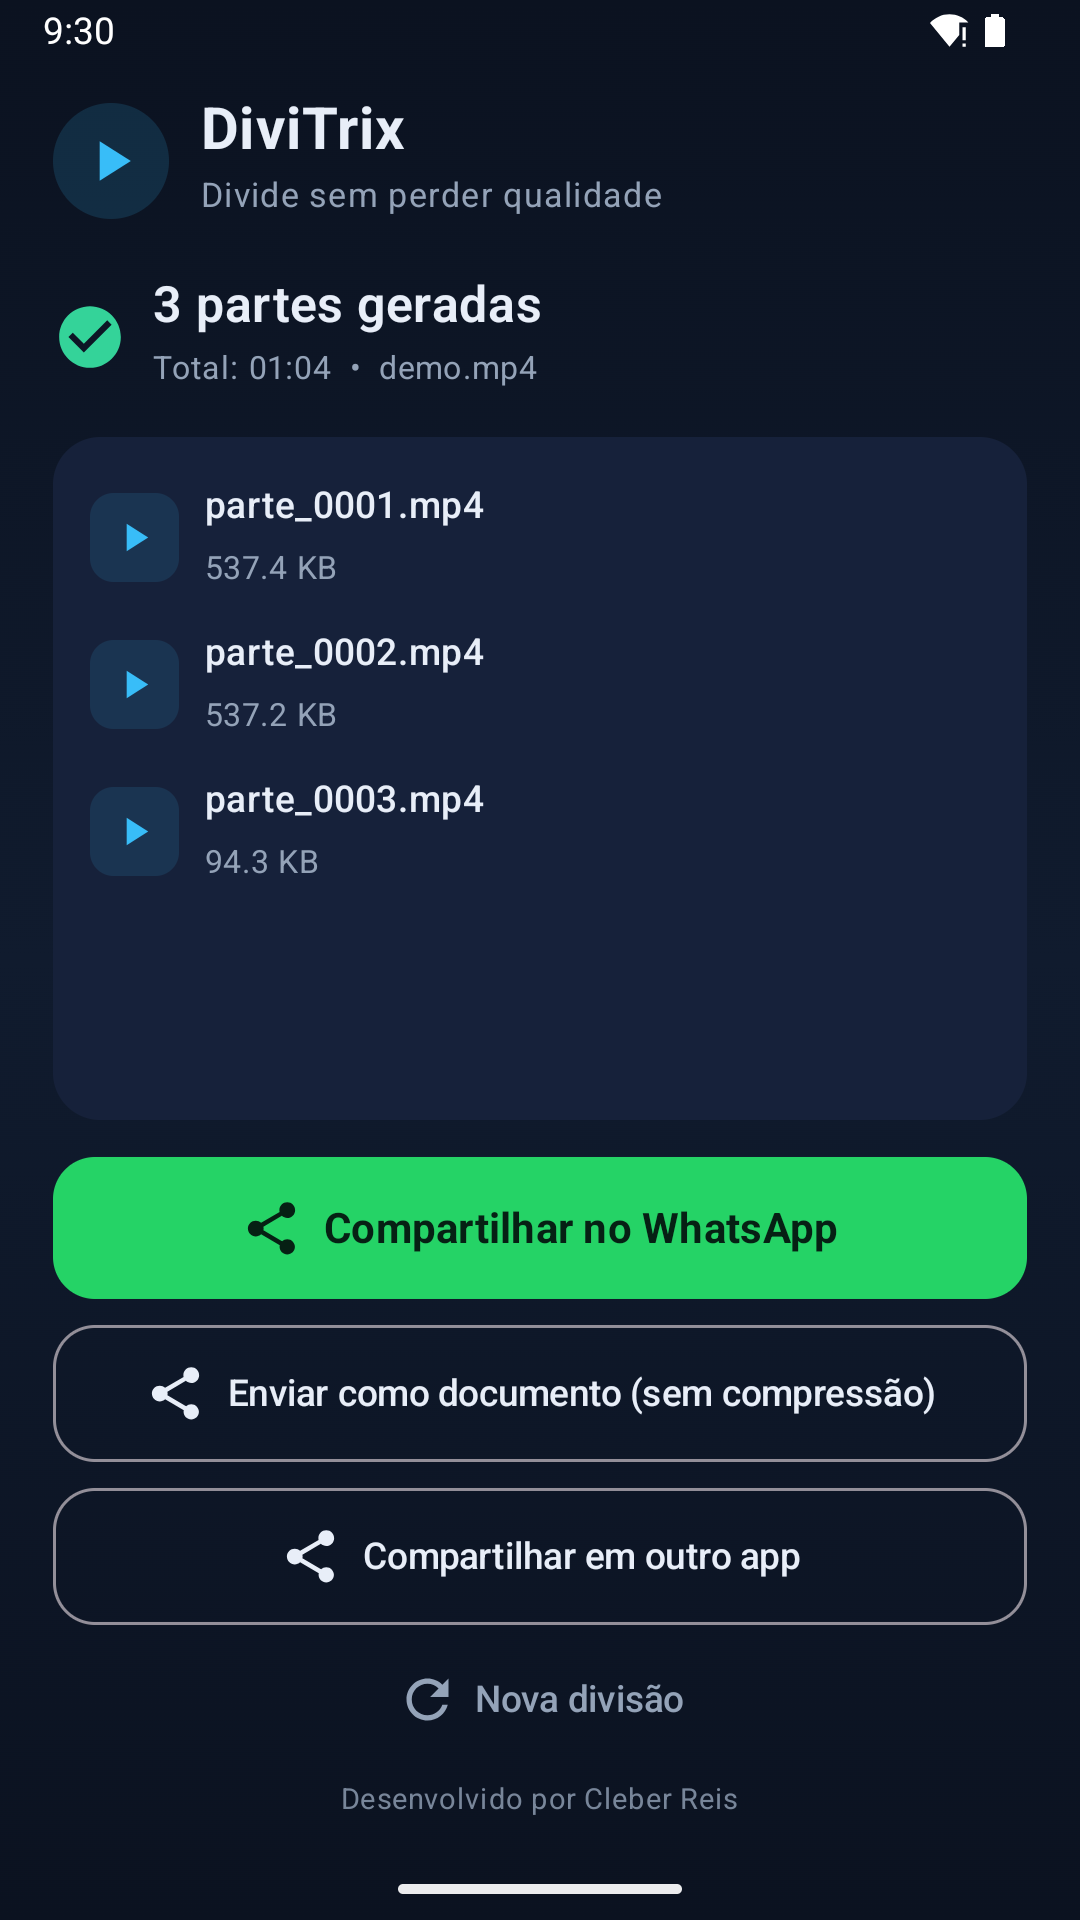
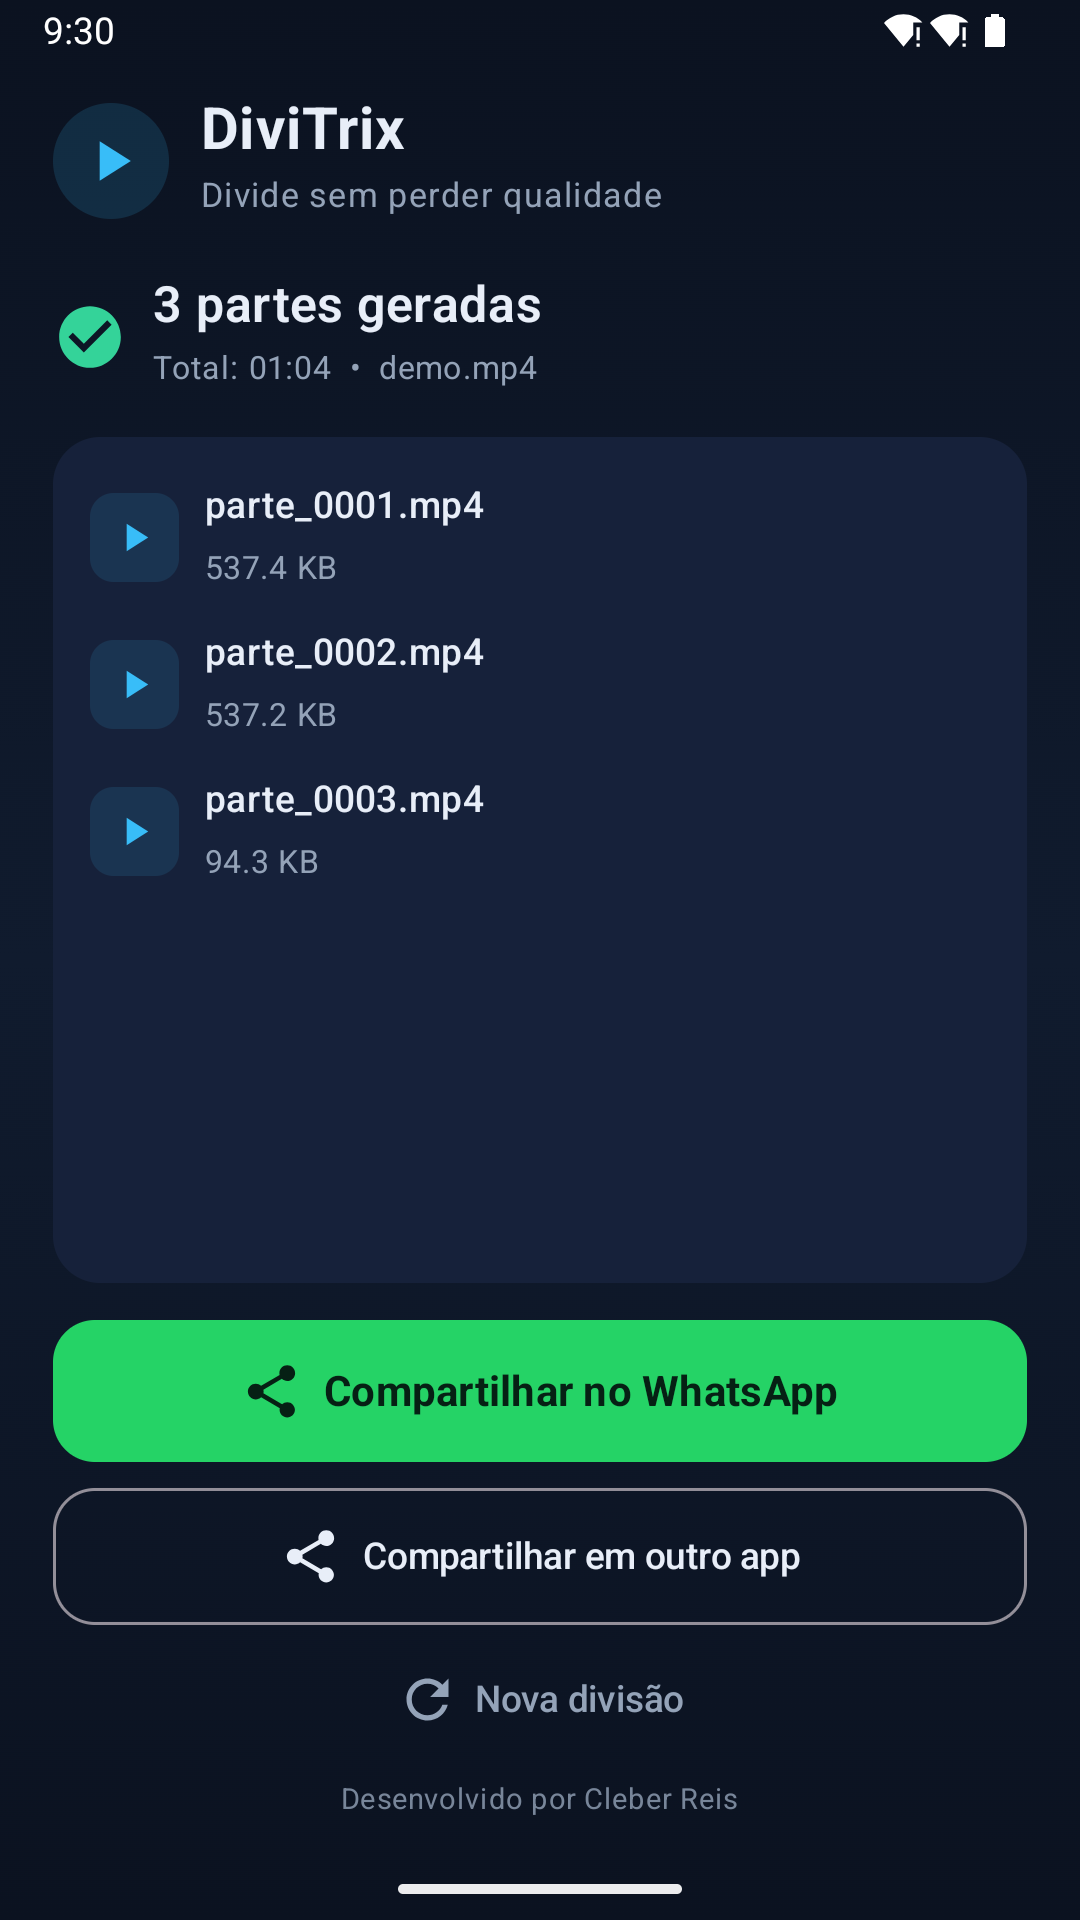
feat: remove a opção de enviar como documento
- Tela de resultado passa a ter só 'Compartilhar no WhatsApp' e 'Compartilhar em outro app'
- ShareUtils não trata mais application/octet-stream
- Documentação, prints da loja e hashes atualizados

Changed region(s): [[0.0306, 0.5938, 0.9778, 0.7812], [0.825, 0.0, 0.8556, 0.0312]]

diff --git a/app/src/main/java/com/cleber/divitrix/MainActivity.kt b/app/src/main/java/com/cleber/divitrix/MainActivity.kt
@@ -182,22 +182,6 @@ class MainActivity : ComponentActivity() {
                                             ).show()
                                         }
                                     },
-                                    onWhatsAppDocument = {
-                                        runCatching {
-                                            ShareUtils.shareToWhatsApp(
-                                                context,
-                                                current.files,
-                                                current.mimeType,
-                                                asDocument = true,
-                                            )
-                                        }.onFailure {
-                                            Toast.makeText(
-                                                context,
-                                                "Não foi possível abrir o compartilhamento",
-                                                Toast.LENGTH_LONG,
-                                            ).show()
-                                        }
-                                    },
                                     onReset = vm::reset,
                                 )
 
@@ -584,7 +568,6 @@ private fun DoneContent(
     done: SplitViewModel.State.Done,
     onWhatsApp: () -> Unit,
     onOtherApps: () -> Unit,
-    onWhatsAppDocument: () -> Unit,
     onReset: () -> Unit,
 ) {
     Column(modifier = Modifier.fillMaxSize()) {
@@ -636,18 +619,6 @@ private fun DoneContent(
         Spacer(Modifier.height(14.dp))
 
         WhatsAppButton(onClick = onWhatsApp)
-        Spacer(Modifier.height(10.dp))
-        OutlinedButton(
-            onClick = onWhatsAppDocument,
-            modifier = Modifier
-                .fillMaxWidth()
-                .height(52.dp),
-            shape = RoundedCornerShape(16.dp),
-        ) {
-            Icon(Icons.Default.Share, contentDescription = null, tint = TextPrimary)
-            Spacer(Modifier.width(8.dp))
-            Text("Enviar como documento (sem compressão)", color = TextPrimary, fontSize = 14.sp)
-        }
         Spacer(Modifier.height(10.dp))
         OutlinedButton(
             onClick = onOtherApps,

diff --git a/app/src/main/java/com/cleber/divitrix/ShareUtils.kt b/app/src/main/java/com/cleber/divitrix/ShareUtils.kt
@@ -16,11 +16,8 @@ object ShareUtils {
         context: Context,
         files: List<File>,
         mimeType: String,
-        asDocument: Boolean = false,
     ) {
-        // Como documento (application/octet-stream) o WhatsApp não recomprime o vídeo.
-        val shareMime = if (asDocument) "application/octet-stream" else mimeType
-        val base = buildIntent(context, files, shareMime)
+        val base = buildIntent(context, files, mimeType)
         val installed = WHATSAPP_PACKAGES.firstOrNull { pkg ->
             runCatching { context.packageManager.getPackageInfo(pkg, 0) }.isSuccess
         }
@@ -35,7 +32,7 @@ object ShareUtils {
                 // alguns aparelhos bloqueiam o envio direto; usa o seletor
             }
         }
-        shareToAnyApp(context, files, shareMime)
+        shareToAnyApp(context, files, mimeType)
     }
 
     fun shareToAnyApp(context: Context, files: List<File>, mimeType: String) {

diff --git a/docs/PLAY_STORE.md b/docs/PLAY_STORE.md
@@ -76,8 +76,8 @@ de assinatura.
 | `versionCode` | `1` |
 | `versionName` | `1.0.0` |
 | `minSdk` / `targetSdk` / `compileSdk` | `26` / `36` / `36` |
[4 lines of base64/hex data omitted]
 
 > **App novo, ainda em desenvolvimento.** O `applicationId` deste projeto é `com.cleber.divitrix` desde o início da marca Divitrix. Como o pacote mudou em relação ao protótipo anterior (Divide 30s), o Android trata o Divitrix como um app instalado à parte: desinstale o protótipo antes de testar.
 
@@ -109,7 +109,6 @@ PRINCIPAIS RECURSOS
 • Divisão sem perda de qualidade: nenhum decoder ou encoder é usado, então o vídeo não é recompactado e não perde nitidez.
 • Rápido: como não há recompressão, o tempo de processamento é muito menor do que o de um editor tradicional.
 • Compartilhamento em lote: depois de dividir, envie TODAS as partes de uma vez para o WhatsApp ou para qualquer outro app.
-• Modo documento: envie as partes como documento para o WhatsApp não recomprimir o vídeo.
 • Barra de progresso e cancelamento a qualquer momento.
 • Verificação de espaço livre antes de começar.
 • Limpeza automática das partes anteriores para não ocupar espaço à toa.
@@ -118,7 +117,7 @@ COMO USAR
 
 1. Toque em "Escolher vídeo" e selecione o arquivo.
 2. Confira a duração e o tamanho e toque em "Dividir em partes de 30s".
-3. Escolha "Compartilhar no WhatsApp", "Enviar como documento" ou "Compartilhar em outro app".
+3. Escolha "Compartilhar no WhatsApp" ou "Compartilhar em outro app".
 
 SOBRE O CORTE
 
@@ -268,7 +267,7 @@ Primeira versão do DiviTrix (ainda em desenvolvimento).
 • Nome e identidade: DiviTrix.
 • Tela de pré-visualização: ao escolher o vídeo, toque para dar play e conferir se é o arquivo correto antes de dividir.
 • Mantém a divisão em partes de ~30s sem reencodificar (qualidade original).
-• Compartilha todas as partes de uma vez no WhatsApp (inclui modo documento).
+• Compartilha todas as partes de uma vez no WhatsApp ou em outro app.
 • As partes da divisão anterior são apagadas ao escolher outro vídeo.
 • Compatível com Android 8.0+ e alinhado ao targetSdk 36.
 ```

diff --git a/README.md b/README.md
@@ -16,8 +16,6 @@ Aplicativo Android que divide vídeos em partes de **30 segundos sem reencodar**
   original e o processamento é rápido.
 - 📤 Compartilha o grupo inteiro de uma vez (`ACTION_SEND_MULTIPLE`).
 - 🟢 Atalho direto para o WhatsApp, com fallback para o seletor do sistema.
-- 📄 Opção **"Enviar como documento (sem compressão)"** para o WhatsApp não
-  recomprimir os vídeos.
 - 📊 Progresso em tempo real e cancelamento.
 - 💾 Checagem de espaço livre antes de começar.
 - 🧹 Limpa automaticamente as partes da divisão anterior.
@@ -83,9 +81,9 @@ Ou copie o APK para o celular e instale permitindo "fontes desconhecidas".
 3. Confira nome, duração e tamanho e toque em **Dividir em partes de 30s**.
 4. Ao terminar, escolha:
    - **Compartilhar no WhatsApp** — envia todas as partes de uma vez;
-   - **Enviar como documento (sem compressão)** — mantém o arquivo original
-     (o WhatsApp não recomprime);
-   - **Compartilhar em outro app** — abre o seletor do Android.
+   - **Compartilhar em outro app** — abre o seletor do Android (Drive, e-mail,
+     Telegram etc.), inclusive para enviar o arquivo sem passar pela
+     recompressão do WhatsApp.
 
 Guia detalhado: [docs/COMO_USAR.md](docs/COMO_USAR.md)
 
@@ -178,9 +176,9 @@ Detalhes técnicos: [docs/ARQUITETURA.md](docs/ARQUITETURA.md)
 
 - **Corte em keyframe**: partes de 30–32s, não 30,000s exatos.
 - **Containers**: MP4/H.264/HEVC (padrão de celular). WebM/VP9 requer Android 10+.
-- **WhatsApp**: recomprime vídeos enviados como mídia; use o modo documento para
-  manter o original. O app também pode esbarrar no limite de arquivos por envio
-  do WhatsApp.
+- **WhatsApp**: recomprime vídeos enviados como mídia. Para manter o arquivo
+  original, compartilhe por outro app (Drive, e-mail etc.). O app também pode
+  esbarrar no limite de arquivos por envio do WhatsApp.
 - **Armazenamento**: as partes ficam na pasta privada do app
   (`Android/data/com.cleber.divitrix/files/Movies/Divitrix/`) e não
   aparecem na galeria; são apagadas ao iniciar uma nova divisão.

diff --git a/docs/COMO_USAR.md b/docs/COMO_USAR.md
@@ -29,19 +29,19 @@ reencodado — é só cópia de dados.
 
 ## Compartilhar no WhatsApp
 
-Na tela de resultado você tem três opções:
+Na tela de resultado você tem duas opções:
 
 | Botão | O que faz |
 |---|---|
 | **Compartilhar no WhatsApp** | Abre o WhatsApp com **todas as partes** anexadas de uma vez. |
-| **Enviar como documento (sem compressão)** | Envia como documento; o WhatsApp não recomprime e o arquivo chega idêntico. |
 | **Compartilhar em outro app** | Abre o seletor do Android (Drive, Telegram, e-mail etc.). |
 
 ### Por que às vezes o WhatsApp comprime?
 
 Quando você envia um vídeo como **mídia**, o WhatsApp reencoda para reduzir o
-tamanho. Para manter a qualidade original, use **"Enviar como documento (sem
-compressão)"**. Nesse modo o destinatário recebe o MP4 original.
+tamanho. Se precisar do arquivo idêntico ao original, use **Compartilhar em
+outro app** e escolha Drive, e-mail ou outro destino que envie o MP4 sem
+recompressão.
 
 ### Limite de arquivos
 
@@ -49,7 +49,6 @@ O WhatsApp pode limitar quantos vídeos aceita por envio (varia por versão). Se
 ele recusar o grupo inteiro:
 
 - envie em grupos menores;
-- use o modo documento;
 - ou compartilhe por outro app.
 
 ## Onde ficam os arquivos

diff --git a/docs/ARQUITETURA.md b/docs/ARQUITETURA.md
@@ -155,7 +155,7 @@ Vantagens: não exige permissão de armazenamento (scoped storage) e o
 
 ```kotlin
 Intent(Intent.ACTION_SEND_MULTIPLE).apply {
-    type = if (documento) "application/octet-stream" else mimeDoVídeo
+    type = mimeDoVídeo
     putParcelableArrayListExtra(Intent.EXTRA_STREAM, uris)
     clipData = clipComTodasAsUris
     addFlags(FLAG_GRANT_READ_URI_PERMISSION)
@@ -165,8 +165,8 @@ Intent(Intent.ACTION_SEND_MULTIPLE).apply {
 - `ClipData` com todas as URIs garante a concessão de permissão para cada item.
 - WhatsApp direto: tenta `com.whatsapp` e `com.whatsapp.w4b`; se não existir,
   cai no seletor padrão.
-- `application/octet-stream` faz o WhatsApp tratar como documento, evitando
-  recompressão.
+- O envio segue como `video/mp4`; a recompressão (ou não) do arquivo passa a ser
+  decisão do app de destino.
 
 ## Decisões e alternativas descartadas
 

diff --git a/PRIVACY.md b/PRIVACY.md
@@ -39,9 +39,9 @@ apps é concedida por `FileProvider` no momento do compartilhamento.
 
 ## Compartilhamento com terceiros
 
-Ao tocar em **Compartilhar no WhatsApp**, **Enviar como documento** ou
-**Compartilhar em outro app**, o Android abre o app de destino escolhido por
-você e entrega os arquivos selecionados. A partir desse momento, o tratamento
+Ao tocar em **Compartilhar no WhatsApp** ou **Compartilhar em outro app**, o
+Android abre o app de destino escolhido por você e entrega os arquivos
+selecionados. A partir desse momento, o tratamento
 dos dados passa a ser responsabilidade do aplicativo escolhido (por exemplo, a
 política de privacidade do WhatsApp). O DiviTrix não tem controle nem acesso
 ao que o app de destino faz com os arquivos.
